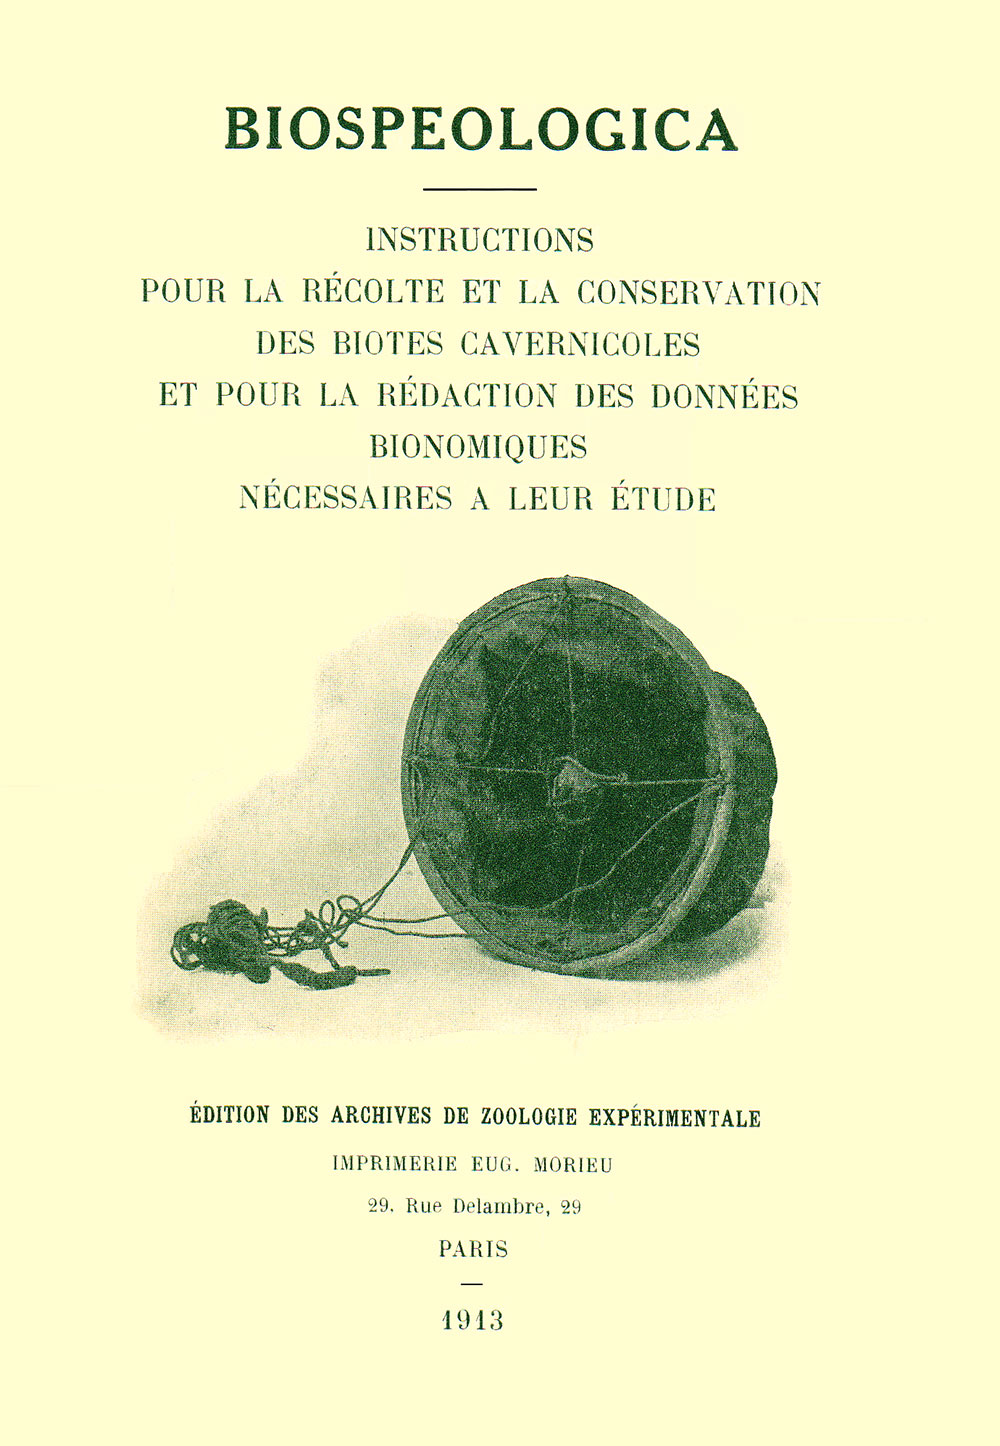
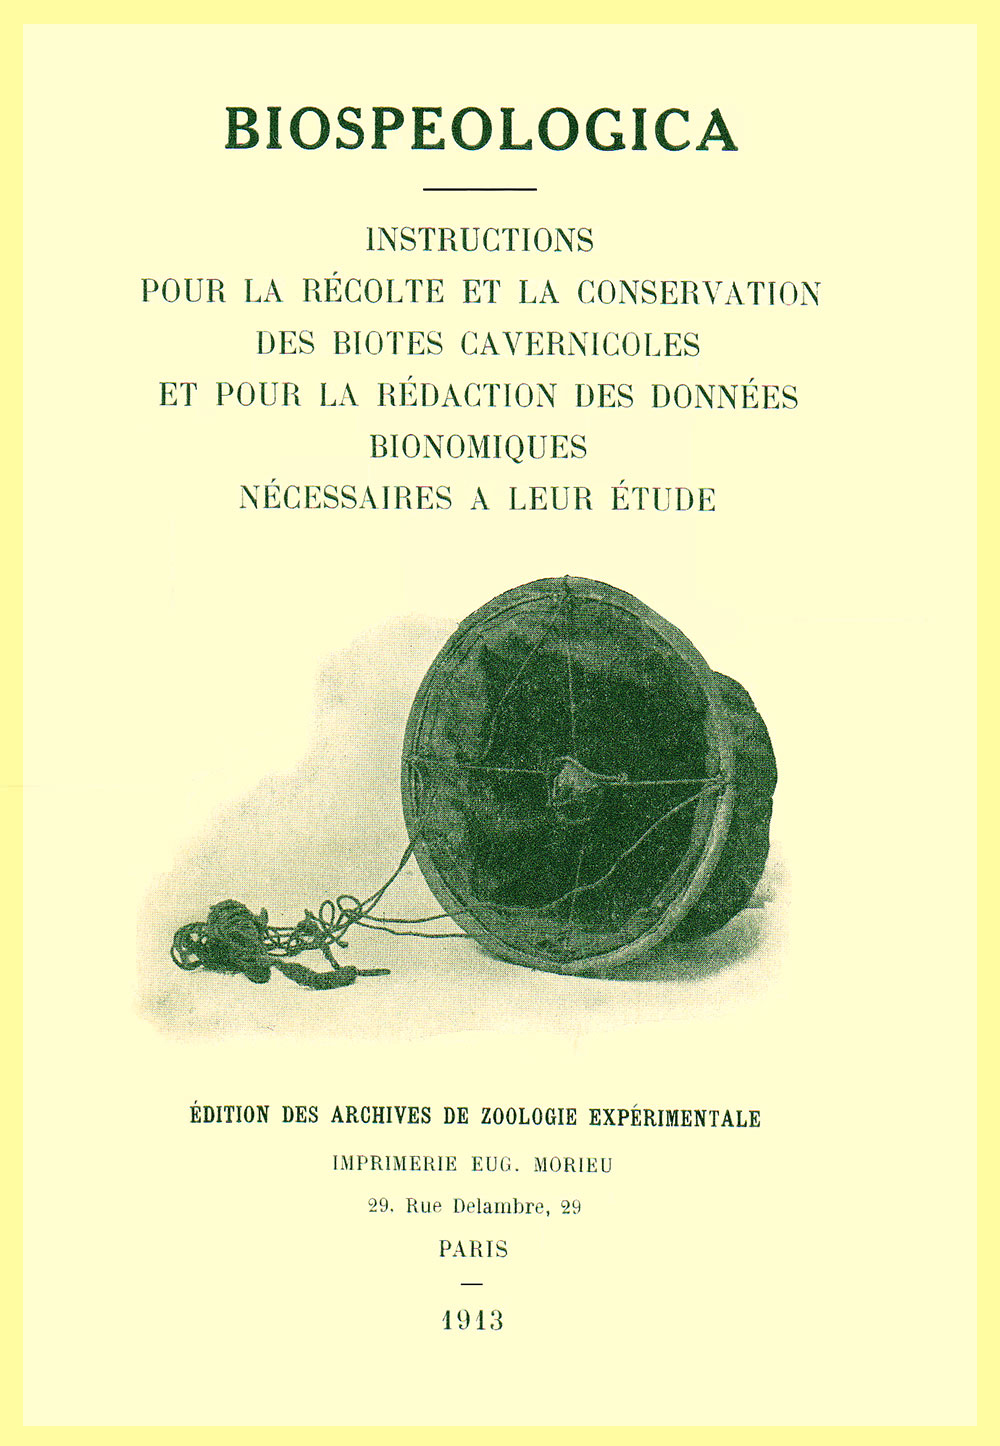
publications

Changed region(s): [[0.0, 0.0, 1.0, 1.0]]

diff --git a/ro/pubs.md b/ro/pubs.md
@@ -46,6 +46,9 @@ banner: banner-biografie.jpg
 
 1. Matériaux pour la faune des Annélides polychètes de Banyuls. *Archives de Zoologie expérimentale et générale*, Paris, 3-ème série, III, 1895, p. 339-492 (în colaborare cu G. Pruvot).
 
+    {% include figure url="/assets/images/pubs/2-Instructiuni-Biospeologica.jpg"
+       class="c4-figure-start float-start img-fluid"
+    %}
 1. Contributions à la morphologie de la cellule (Zur Morphologie der Zelle), par Gustav Schloter; − Le Homard de Helgoland, un objet de la pêcherie allemande (Der Helgolander Hummer, ein Gegenstand deutsche Fischerei), par Ernst Ehernbaum; − Sur la formation du mésoderme chez la *Paludina vivipara* (Zur Bildung des Mesoderms bei der *Paludina vivipara*), par R. v. Erlanger; − Contribution à l’histoire naturelle de quelques poissons de l’Elbe (Beiträge zur Naturgeschichte einiger Elbfischer), *Osmerus esperlanus* L., *Clupea finta* Cuv., Acipnser sturio, L., par E. Ebrenbaum; − Un nouvel éclaircissant pour objets inclus au collodion (A new clearer for collodionized objects), par Pierre A. Fisch (recenzii). *Archives de Zoologie expérimentale et générale*, Paris, 3-ème série, II, 1895, Notes et Revue, p. IV-IX.
 
 1. Le lobe céphalique et l’encéphale des Annélides polychètes (Anatomie, Morphologie, Histologie). *Archives de Zoologie expérimentale et générale*, Paris, 3-ème série, IV, 1896, p. 133-343.
@@ -76,6 +79,9 @@ banner: banner-biografie.jpg
 
 1. Note sur le Grand Serpent de Mer, *Megophias megophias* (Rafinesque). À propos d’une observation de M. Lagrésille, faite en 1898 dans les mers du Tonkin. *Bulletin de la Société Zoologique de France*, Paris, XXVIII, 1903, p. 11-29.
 
+    {% include figure url="/assets/images/pubs/3-Institutul-de-Speologie.jpg"
+       class="c4-figure-end float-end img-fluid"
+    %}
 1. Comptes rendus bibliographiques. II. Valery Mayet– Catalogue raisonné des Reptiles et Batraciens de la Tunisie (*Exploration scientifique de la Tunisie. Zoologie, Reptiles et Batraciens. Paris Imprimerie Nationale*, 1903, 32p.). III. International catalogue of scientific literature. L. General Biology [*London, Published for the International council by the Royal Scientific of London*, Vol. XVI, August 1903, XIII + 144 p.] (recenzii). *Archives de Zoologie expérimentale et générale*, 4-ème série, II, 1903, Notes et Revue, p. XV-XVI.
 
 1. Observations sur un banc d’anchois, *Engraulis encrassicolus* (L.), rencontré près de l’Ile Cabrera (Baléares). *Bulletin de la Société Zoologique de France*, Paris, XXIX, 1904, p. 211-218.
@@ -108,17 +114,17 @@ banner: banner-biografie.jpg
 
 1. Cirolanides (1-ère série). Biospeologica XXVII. *Archives de Zoologie expérimentale et générale*, Paris, 5-ème série, IX, 1912, p.203-329, 8 fig., 14 pl.
 
-1. Énumération des grottes visitées, 1909-1911 (4-ème série). Biospeologica XXIV. *Archives de Zoologie expérimentale et générale*, Paris, 5-ème série, IX, 1912, p. 501-667) (în colaborare cu R. Jeannel).
+1. Énumération des grottes visitées, 1909-1911 (4-ème série). Biospeologica XXIV. *Archives de Zoologie expérimentale et générale*, Paris, 5-ème série, IX, 1912, p. 501-667 (în colaborare cu R. Jeannel).
 
-    {% include figure url="/assets/images/pubs/2-Instructiuni-Biospeologica.jpg"
-       class="c4-figure-start float-start img-fluid"
-    %}
 1. *Biospeologica. Instructions pour la récolte et la conservation des biotes cavernicoles et pour la rédaction des données bionomiques nécessaires à leur étude*. Edit. des Archives de Zoologie expérimentale et générale, Paris, 1913, 24 pp.
 
 1. Énumération des grottes visitées, 19111-1913 (5-ème série). Biospeologica XXXIII. *Archives de Zoologie expérimentale et générale*, Paris, LIII, 1914, p. 325-558 (în colaborare cu R. Jeannel).
 
 1. Énumération des grottes visitées, 19111-1913 (6-ème série). Biospeologica XXXIX. *Archives de Zoologie expérimentale et générale*, Paris, LVII, 1918, p. 203-470 (în colaborare cu R. Jeannel).
 
+    {% include figure url="/assets/images/pubs/8-buletin.jpg"
+       class="c4-figure-start float-start img-fluid"
+    %}
 1. Notes sur les Isopodes. − 1.  *Asellus aquaticus* auct. est une erreur taxonomique. − 2. *Asellus aquaticus* et *A. meridionalis* n.sp. *Archives de Zoologie expérimentale et générale*, Paris, LVIII, 1919, Notes et Revue, no. 2, p. 31-43, 12 fig.
 
 1. Notes sur les Isopodes. − 3. *Asellus banyulensis* n.sp. − 4. *Asellus coxalis* Dolfus. − 5. *Asellus coxalis peyerimhoffi* n. subsp. *Archives de Zoologie expérimentale et générale*, Paris, LVIII, 1919, Notes et Revue, no. 3, p. 49-77, 51 fig.
@@ -163,11 +169,11 @@ banner: banner-biografie.jpg
 
 1. Avant-propos. *Lucrările Institutului de Speologie din Cluj. Travaux de l’Institut de Spéologie de Cluj*, Cluj, I, 1926, p. V-VI.
 
-    {% include figure url="/assets/images/pubs/3-Institutul-de-Speologie.jpg"
-       class="c4-figure-end float-end img-fluid"
-    %}
 1. L’Institut de Spéologie de Cluj et considérations générales sur l’importance, le rôle et l’organisation des instituts de recherches scientifiques. Premier rapport de la direction, période 1920 à 1924. *Lucrările Institutului de Speologie din Cluj. Travaux de l’Institut de Spéologie de Cluj*, Cluj, I, 1926, p. 1-50 + anexe, p. 1-10.
 
+    {% include figure url="/assets/images/pubs/9-Congresul-Naturalistilor.jpg"
+       class="c4-figure-end float-end img-fluid"
+    %}
 1. *Catalogul revistelor ştiinţifice şi medicale din Cluj. Catalogue des revues scientifiques et médicales de Cluj*. Alcătuit sub direcţia lui E. G. Racoviţă… de către A. Valentiny… Cluj, 1926, XXIV + 455 pp.
 
 1. Raport asupra lucrării „Botanica farmaceutică” de Col. Gh. Grinţescu, distinsă cu o parte din premiul Adamachi. Şedinţa de la 11 iunie 1926. *Anale*, Academia Română, Bucureşti, XLVI, 1926, p. 186-187.
@@ -198,9 +204,6 @@ banner: banner-biografie.jpg
 
 1. Raport privind starea şi activitatea Institutului de Speologie. *Anuarul Universităţii din Cluj pe anii şcolari 1925/26 şi 1926/27*, Cluj, 1928, p. 195-197 şi 233-236.
 
-    {% include figure url="/assets/images/pubs/8-buletin.jpg"
-       class="c4-figure-start float-start img-fluid"
-    %}
 1. Cartothèque à classement vertical. Essai pour trouver une méthode rationnelle et pratique de conservation et de manipulation des grandes feuilles sana les détériorer. *Buletinul Societăţii de Ştiinţe din Cluj*, Cluj, IV, 1928, p. 3-19, 6 fig., 1 pl.
 
 1. Idem în: *Lucrările Institutului de Speologie din Cluj. Travaux de l’Institut de Spéologie de Cluj*. Cluj, IV, 1929, No. 54.

diff --git a/fr/pubs.md b/fr/pubs.md
@@ -47,6 +47,9 @@ Bucureşti, 1964, avec des ajouts).
 
 1. Matériaux pour la faune des Annélides polychètes de Banyuls. *Archives de Zoologie expérimentale et générale*, Paris, 3-ème série, III, 1895, p. 339-492 (în colaborare cu G. Pruvot).
 
+    {% include figure url="/assets/images/pubs/2-Instructiuni-Biospeologica.jpg"
+       class="c4-figure-start float-start img-fluid"
+    %}
 1. Contributions à la morphologie de la cellule (Zur Morphologie der Zelle), par Gustav Schloter; − Le Homard de Helgoland, un objet de la pêcherie allemande (Der Helgolander Hummer, ein Gegenstand deutsche Fischerei), par Ernst Ehernbaum; − Sur la formation du mésoderme chez la *Paludina vivipara* (Zur Bildung des Mesoderms bei der *Paludina vivipara*), par R. v. Erlanger; − Contribution à l’histoire naturelle de quelques poissons de l’Elbe (Beiträge zur Naturgeschichte einiger Elbfischer), *Osmerus esperlanus* L., *Clupea finta* Cuv., Acipnser sturio, L., par E. Ebrenbaum; − Un nouvel éclaircissant pour objets inclus au collodion (A new clearer for collodionized objects), par Pierre A. Fisch (recenzii). *Archives de Zoologie expérimentale et générale*, Paris, 3-ème série, II, 1895, Notes et Revue, p. IV-IX.
 
 1. Le lobe céphalique et l’encéphale des Annélides polychètes (Anatomie, Morphologie, Histologie). *Archives de Zoologie expérimentale et générale*, Paris, 3-ème série, IV, 1896, p. 133-343.
@@ -77,6 +80,9 @@ Bucureşti, 1964, avec des ajouts).
 
 1. Note sur le Grand Serpent de Mer, *Megophias megophias* (Rafinesque). À propos d’une observation de M. Lagrésille, faite en 1898 dans les mers du Tonkin. *Bulletin de la Société Zoologique de France*, Paris, XXVIII, 1903, p. 11-29.
 
+    {% include figure url="/assets/images/pubs/3-Institutul-de-Speologie.jpg"
+       class="c4-figure-end float-end img-fluid"
+    %}
 1. Comptes rendus bibliographiques. II. Valery Mayet– Catalogue raisonné des Reptiles et Batraciens de la Tunisie (*Exploration scientifique de la Tunisie. Zoologie, Reptiles et Batraciens. Paris Imprimerie Nationale*, 1903, 32p.). III. International catalogue of scientific literature. L. General Biology [*London, Published for the International council by the Royal Scientific of London*, Vol. XVI, August 1903, XIII + 144 p.] (recenzii). *Archives de Zoologie expérimentale et générale*, 4-ème série, II, 1903, Notes et Revue, p. XV-XVI.
 
 1. Observations sur un banc d’anchois, *Engraulis encrassicolus* (L.), rencontré près de l’Ile Cabrera (Baléares). *Bulletin de la Société Zoologique de France*, Paris, XXIX, 1904, p. 211-218.
@@ -111,9 +117,6 @@ Bucureşti, 1964, avec des ajouts).
 
 1. Énumération des grottes visitées, 1909-1911 (4-ème série). Biospeologica XXIV. *Archives de Zoologie expérimentale et générale*, Paris, 5-ème série, IX, 1912, p. 501-667) (în colaborare cu R. Jeannel).
 
-    {% include figure url="/assets/images/pubs/2-Instructiuni-Biospeologica.jpg"
-       class="c4-figure-start float-start img-fluid"
-    %}
 1. *Biospeologica. Instructions pour la récolte et la conservation des biotes cavernicoles et pour la rédaction des données bionomiques nécessaires à leur étude*. Edit. des Archives de Zoologie expérimentale et générale, Paris, 1913, 24 pp.
 
 1. Énumération des grottes visitées, 19111-1913 (5-ème série). Biospeologica XXXIII. *Archives de Zoologie expérimentale et générale*, Paris, LIII, 1914, p. 325-558 (în colaborare cu R. Jeannel).
@@ -128,6 +131,9 @@ Bucureşti, 1964, avec des ajouts).
 
 1.  Idem în: *Lucrările Institutului de Speologie din Cluj. Travaux de l’Institut de Spéologie de Cluj*, Cluj, I, 1926, No. 8.
 
+    {% include figure url="/assets/images/pubs/8-buletin.jpg"
+       class="c4-figure-start float-start img-fluid"
+    %}
 1. Notes sur les Isopodes − 6. *Asellus communis* Say. − 7. Les pléopodes I et II des Asellides: morphologie et développement. *Archives de Zoologie expérimentale et générale*, Paris, LVIII, 1920, Notes et Revue, no. 4, p. 79-115, 84 fig.
 
 1. Notes sur les Isopodes. − 8. *Mancasellus tenax* (Smith). − 9. *Mancasellus macruris* German. *Archives de Zoologie expérimentale et générale*, Paris, LIV, 1920, Notes et Revue, no. 2, p. 28-66. 124 fig.
@@ -164,11 +170,11 @@ Bucureşti, 1964, avec des ajouts).
 
 1. Avant-propos. *Lucrările Institutului de Speologie din Cluj. Travaux de l’Institut de Spéologie de Cluj*, Cluj, I, 1926, p. V-VI.
 
-    {% include figure url="/assets/images/pubs/3-Institutul-de-Speologie.jpg"
-       class="c4-figure-end float-end img-fluid"
-    %}
 1. L’Institut de Spéologie de Cluj et considérations générales sur l’importance, le rôle et l’organisation des instituts de recherches scientifiques. Premier rapport de la direction, période 1920 à 1924. *Lucrările Institutului de Speologie din Cluj. Travaux de l’Institut de Spéologie de Cluj*, Cluj, I, 1926, p. 1-50 + anexe, p. 1-10.
 
+    {% include figure url="/assets/images/pubs/9-Congresul-Naturalistilor.jpg"
+       class="c4-figure-end float-end img-fluid"
+    %}
 1. *Catalogul revistelor ştiinţifice şi medicale din Cluj. Catalogue des revues scientifiques et médicales de Cluj*. Alcătuit sub direcţia lui E. G. Racoviţă… de către A. Valentiny… Cluj, 1926, XXIV + 455 pp.
 
 1. Raport asupra lucrării „Botanica farmaceutică” de Col. Gh. Grinţescu, distinsă cu o parte din premiul Adamachi. Şedinţa de la 11 iunie 1926. *Anale*, Academia Română, Bucureşti, XLVI, 1926, p. 186-187.
@@ -199,9 +205,6 @@ Bucureşti, 1964, avec des ajouts).
 
 1. Raport privind starea şi activitatea Institutului de Speologie. *Anuarul Universităţii din Cluj pe anii şcolari 1925/26 şi 1926/27*, Cluj, 1928, p. 195-197 şi 233-236.
 
-    {% include figure url="/assets/images/pubs/8-buletin.jpg"
-       class="c4-figure-start float-start img-fluid"
-    %}
 1. Cartothèque à classement vertical. Essai pour trouver une méthode rationnelle et pratique de conservation et de manipulation des grandes feuilles sana les détériorer. *Buletinul Societăţii de Ştiinţe din Cluj*, Cluj, IV, 1928, p. 3-19, 6 fig., 1 pl.
 
 1. Idem în: *Lucrările Institutului de Speologie din Cluj. Travaux de l’Institut de Spéologie de Cluj*. Cluj, IV, 1929, No. 54.

diff --git a/en/pubs.md b/en/pubs.md
@@ -47,6 +47,9 @@ Bucureşti, 1964, with additions).
 
 1. Matériaux pour la faune des Annélides polychètes de Banyuls. *Archives de Zoologie expérimentale et générale*, Paris, 3-ème série, III, 1895, p. 339-492 (collaboration with G. Pruvot).
 
+    {% include figure url="/assets/images/pubs/2-Instructiuni-Biospeologica.jpg"
+       class="c4-figure-start float-start img-fluid"
+    %}
 1. Contributions à la morphologie de la cellule (Zur Morphologie der Zelle), par Gustav Schloter; − Le Homard de Helgoland, un objet de la pêcherie allemande (Der Helgolander Hummer, ein Gegenstand deutsche Fischerei), par Ernst Ehernbaum; − Sur la formation du mésoderme chez la *Paludina vivipara* (Zur Bildung des Mesoderms bei der *Paludina vivipara*), par R. v. Erlanger; − Contribution à l’histoire naturelle de quelques poissons de l’Elbe (Beiträge zur Naturgeschichte einiger Elbfischer), *Osmerus esperlanus* L., *Clupea finta* Cuv., Acipnser sturio, L., par E. Ebrenbaum; − Un nouvel éclaircissant pour objets inclus au collodion (A new clearer for collodionized objects), par Pierre A. Fisch (recenzii). *Archives de Zoologie expérimentale et générale*, Paris, 3-ème série, II, 1895, Notes et Revue, p. IV-IX.
 
 1. Le lobe céphalique et l’encéphale des Annélides polychètes (Anatomie, Morphologie, Histologie). *Archives de Zoologie expérimentale et générale*, Paris, 3-ème série, IV, 1896, p. 133-343.
@@ -77,6 +80,9 @@ Bucureşti, 1964, with additions).
 
 1. Note sur le Grand Serpent de Mer, *Megophias megophias* (Rafinesque). À propos d’une observation de M. Lagrésille, faite en 1898 dans les mers du Tonkin. *Bulletin de la Société Zoologique de France*, Paris, XXVIII, 1903, p. 11-29.
 
+    {% include figure url="/assets/images/pubs/3-Institutul-de-Speologie.jpg"
+       class="c4-figure-end float-end img-fluid"
+    %}
 1. Comptes rendus bibliographiques. II. Valery Mayet– Catalogue raisonné des Reptiles et Batraciens de la Tunisie (*Exploration scientifique de la Tunisie. Zoologie, Reptiles et Batraciens. Paris Imprimerie Nationale*, 1903, 32p.). III. International catalogue of scientific literature. L. General Biology [*London, Published for the International council by the Royal Scientific of London*, Vol. XVI, August 1903, XIII + 144 p.] (recenzii). *Archives de Zoologie expérimentale et générale*, 4-ème série, II, 1903, Notes et Revue, p. XV-XVI.
 
 1. Observations sur un banc d’anchois, *Engraulis encrassicolus* (L.), rencontré près de l’Ile Cabrera (Baléares). *Bulletin de la Société Zoologique de France*, Paris, XXIX, 1904, p. 211-218.
@@ -111,9 +117,6 @@ Bucureşti, 1964, with additions).
 
 1. Énumération des grottes visitées, 1909-1911 (4-ème série). Biospeologica XXIV. *Archives de Zoologie expérimentale et générale*, Paris, 5-ème série, IX, 1912, p. 501-667 (collaboration with R. Jeannel).
 
-    {% include figure url="/assets/images/pubs/2-Instructiuni-Biospeologica.jpg"
-       class="c4-figure-start float-start img-fluid"
-    %}
 1. *Biospeologica. Instructions pour la récolte et la conservation des biotes cavernicoles et pour la rédaction des données bionomiques nécessaires à leur étude*. Edit. des Archives de Zoologie expérimentale et générale, Paris, 1913, 24 pp.
 
 1. Énumération des grottes visitées, 19111-1913 (5-ème série). Biospeologica XXXIII. *Archives de Zoologie expérimentale et générale*, Paris, LIII, 1914, p. 325-558 (collaboration with R. Jeannel).
@@ -128,6 +131,9 @@ Bucureşti, 1964, with additions).
 
 1.  Idem în: *Lucrările Institutului de Speologie din Cluj. Travaux de l’Institut de Spéologie de Cluj*, Cluj, I, 1926, No. 8.
 
+    {% include figure url="/assets/images/pubs/8-buletin.jpg"
+       class="c4-figure-start float-start img-fluid"
+    %}
 1. Notes sur les Isopodes − 6. *Asellus communis* Say. − 7. Les pléopodes I et II des Asellides: morphologie et développement. *Archives de Zoologie expérimentale et générale*, Paris, LVIII, 1920, Notes et Revue, no. 4, p. 79-115, 84 fig.
 
 1. Notes sur les Isopodes. − 8. *Mancasellus tenax* (Smith). − 9. *Mancasellus macruris* German. *Archives de Zoologie expérimentale et générale*, Paris, LIV, 1920, Notes et Revue, no. 2, p. 28-66. 124 fig.
@@ -164,11 +170,11 @@ Bucureşti, 1964, with additions).
 
 1. Avant-propos. *Lucrările Institutului de Speologie din Cluj. Travaux de l’Institut de Spéologie de Cluj*, Cluj, I, 1926, p. V-VI.
 
-    {% include figure url="/assets/images/pubs/3-Institutul-de-Speologie.jpg"
-       class="c4-figure-end float-end img-fluid"
-    %}
 1. L’Institut de Spéologie de Cluj et considérations générales sur l’importance, le rôle et l’organisation des instituts de recherches scientifiques. Premier rapport de la direction, période 920 à 1924. *Lucrările Institutului de Speologie din Cluj. Travaux de l’Institut de Spéologie de Cluj*, Cluj, I, 1926, p. 1-50 + anexe, p. 1-10.
 
+    {% include figure url="/assets/images/pubs/9-Congresul-Naturalistilor.jpg"
+       class="c4-figure-end float-end img-fluid"
+    %}
 1. *Catalogul revistelor ştiinţifice şi medicale din Cluj. Catalogue des revues scientifiques et médicales de Cluj*. Alcătuit sub direcţia lui E. G. Racoviţă… de către A. Valentiny… Cluj, 1926, XXIV + 455 pp.
 
 1. Raport asupra lucrării „Botanica farmaceutică” de Col. Gh. Grinţescu, distinsă cu o parte din premiul Adamachi. Şedinţa de la 11 iunie 1926. *Anale*, Academia Română, Bucureşti, XLVI, 1926, p. 186-187.
@@ -199,9 +205,6 @@ Bucureşti, 1964, with additions).
 
 1. Raport privind starea şi activitatea Institutului de Speologie. *Anuarul Universităţii din Cluj pe anii şcolari 1925/26 şi 1926/27*, Cluj, 1928, p. 195-197 şi 233-236.
 
-    {% include figure url="/assets/images/pubs/8-buletin.jpg"
-       class="c4-figure-start float-start img-fluid"
-    %}
 1. Cartothèque à classement vertical. Essai pour trouver une méthode rationnelle et pratique de conservation et de manipulation des grandes feuilles sana les détériorer. *Buletinul Societăţii de Ştiinţe din Cluj*, Cluj, IV, 1928, p. 3-19, 6 fig., 1 pl.
 
 1. Idem în: *Lucrările Institutului de Speologie din Cluj. Travaux de l’Institut de Spéologie de Cluj*. Cluj, IV, 1929, No. 54.
